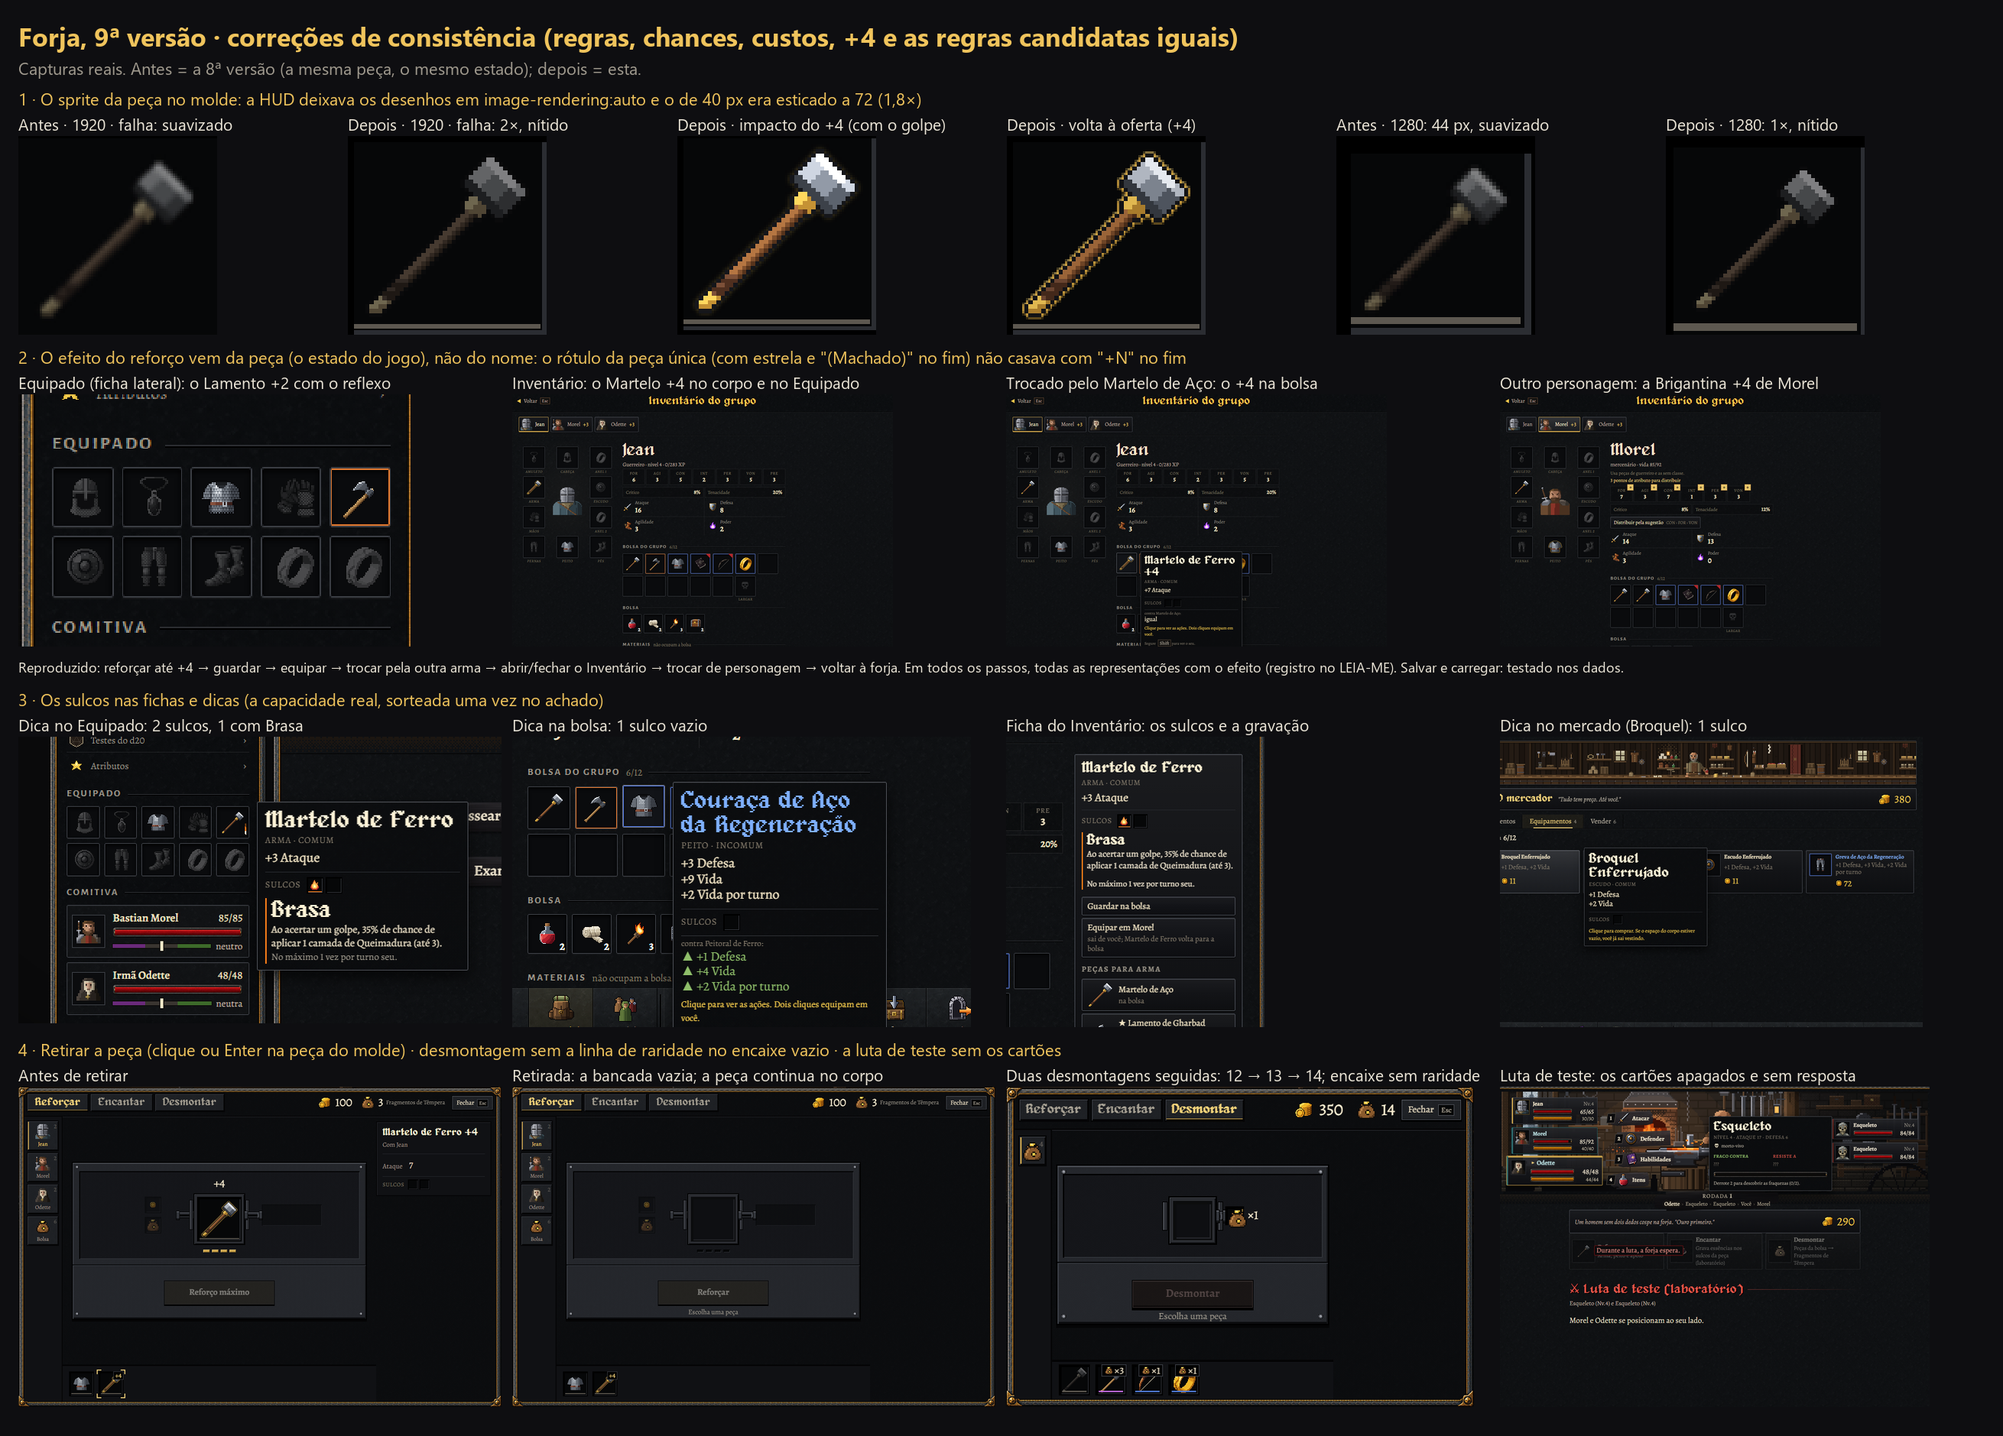
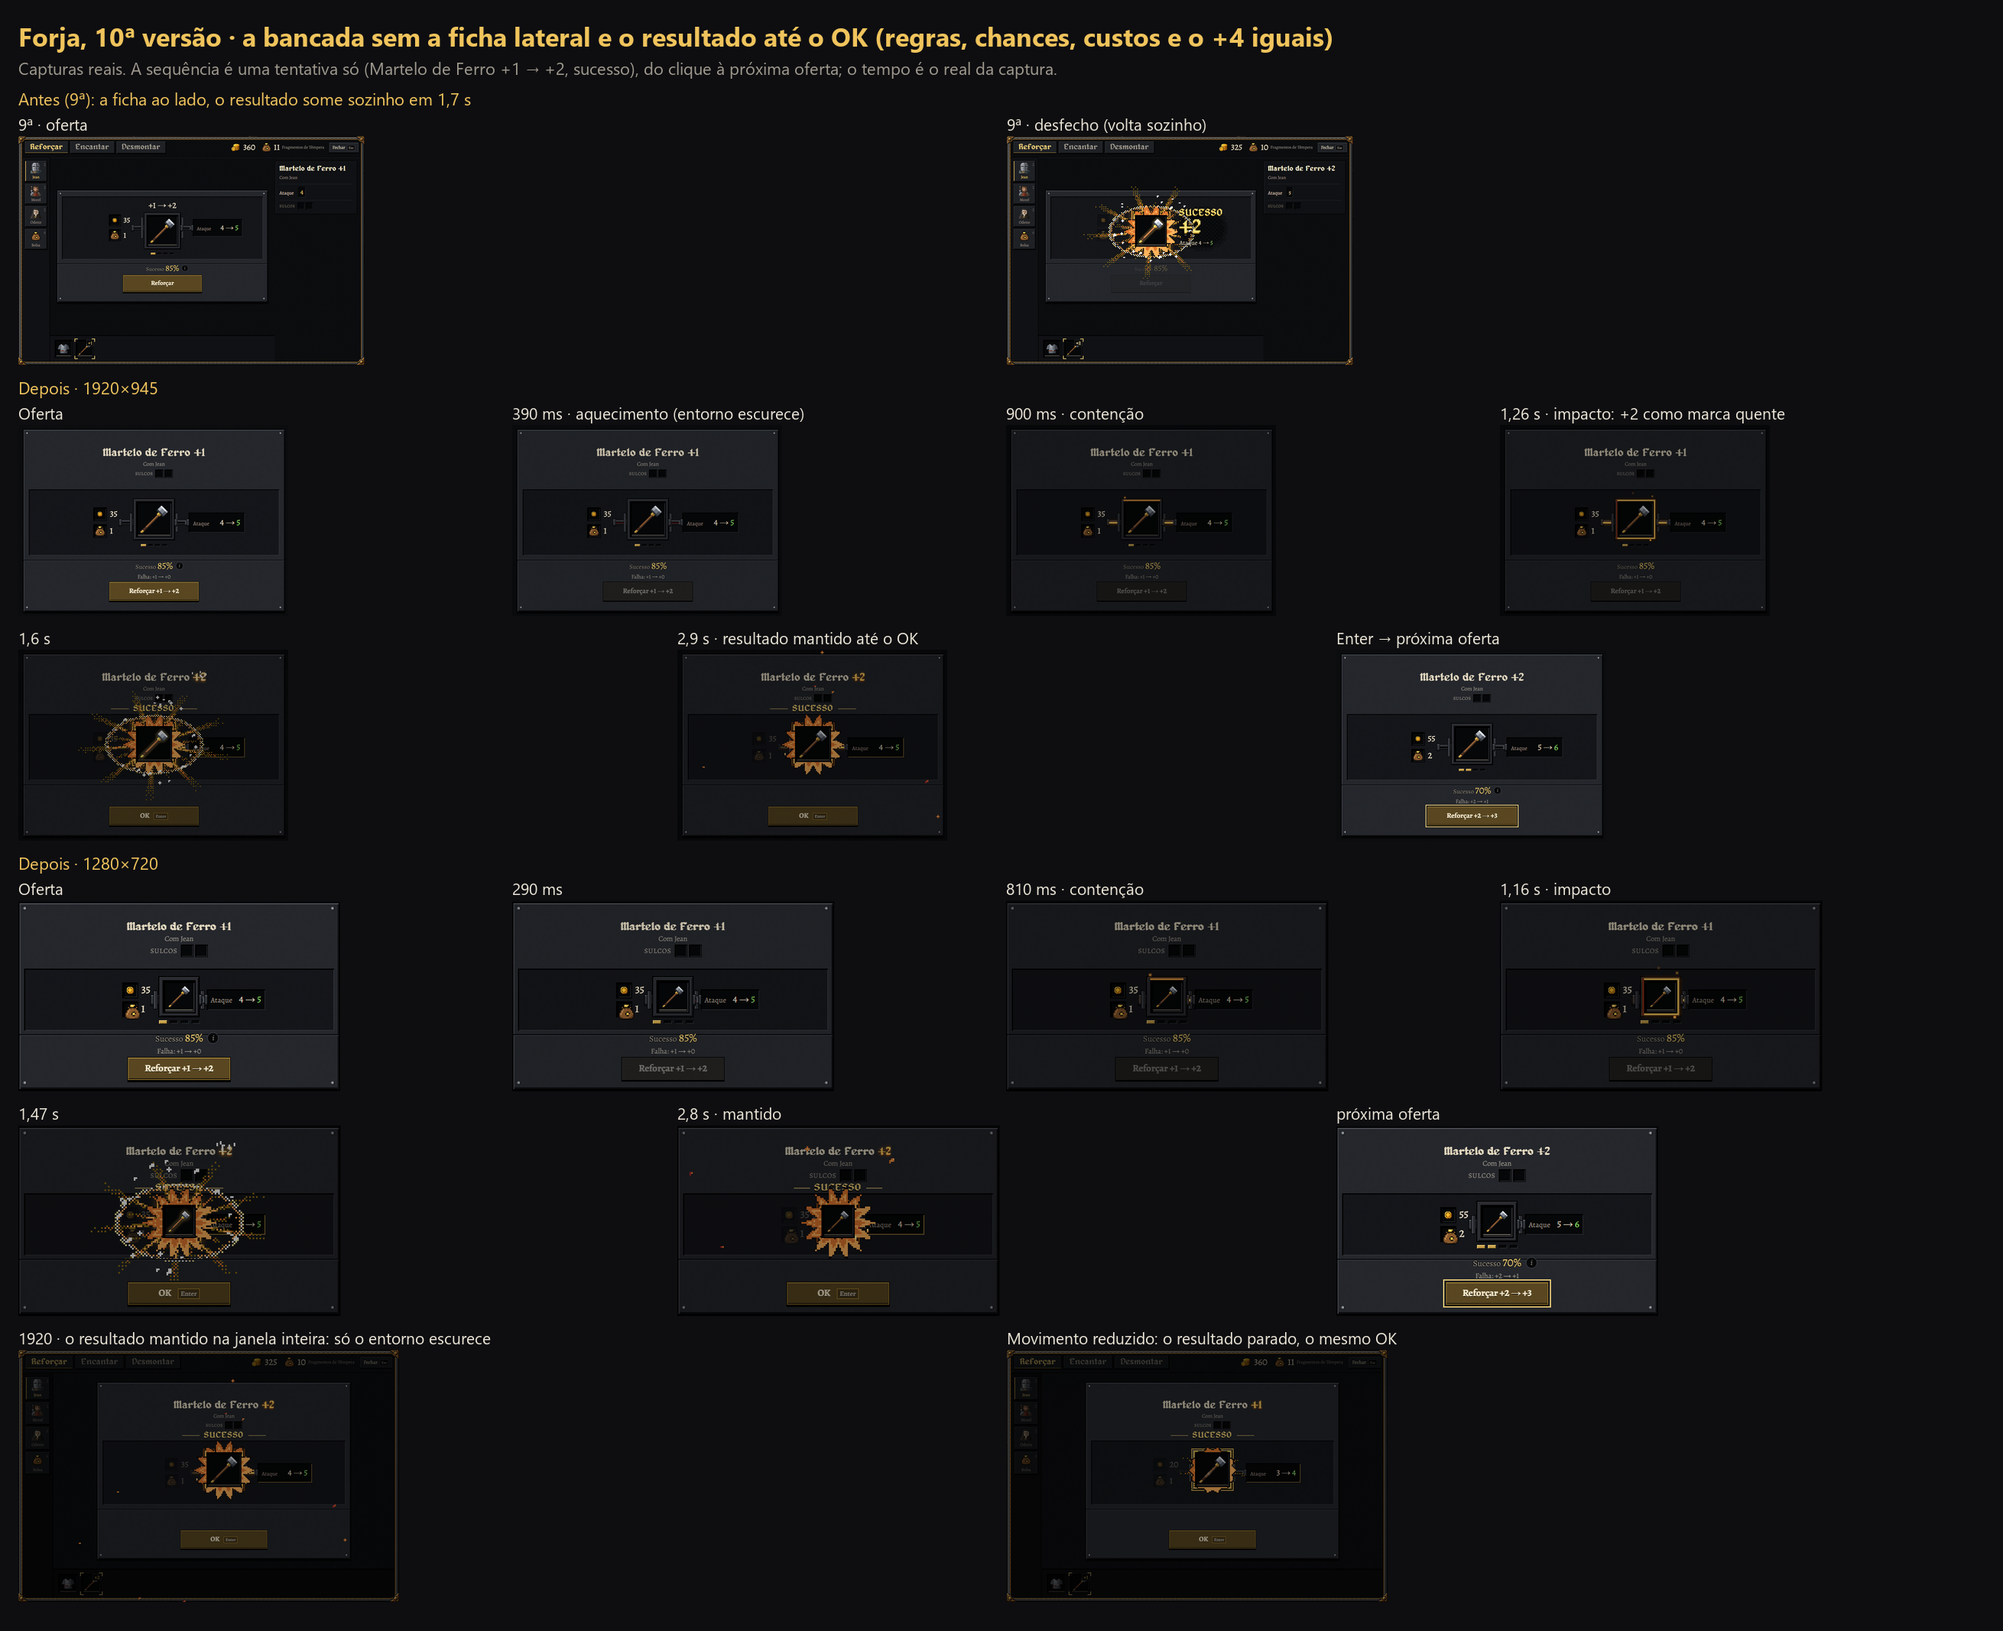
docs: a 10ª versão da forja (corrigido, conferido, som adiado para a 1.0)

diff --git a/ferramentas/prototipos/reforco/LEIA-ME.md b/ferramentas/prototipos/reforco/LEIA-ME.md
@@ -15,11 +15,93 @@ Só nesta execução, `demo.py` troca a forja (o balcão novo), o baú (que pode
 "Materiais" do Inventário, a venda da peça reforçada, a ficha das peças nas telas (as gravações) e liga os efeitos das
 gravações na luta. O resto é o jogo: o Inventário do grupo, o mercado, a luta, a estrada.
 
-## 9ª versão: consistência visual e de interação (candidata em avaliação)
+## 10ª versão: a bancada com o título, o resultado até o OK e as pendências de dados (candidata em avaliação)
+
+Regras, chances, custos e o limite +4 iguais; o sprite continua em escala inteira (2× a 1920), sem ampliar a 3×. A 9ª
+está em `tela/historico/v9` (a faixa abre "v9"). Folhas: `folha.png` (a sequência contínua de uma tentativa, nas duas
+resoluções, e a 9ª ao lado) e `folha-encantar.png` (casos, identidade das peças, sulcos e encantamento).
+
+### A composição do Reforçar
+
+- **Sem a ficha lateral.** No topo da bancada, o nome inteiro da peça com o nível ("Martelo de Ferro +2"), na cor da
+  raridade do jogo; embaixo, menores, o dono e os sulcos. A peça no centro do molde, os materiais à esquerda e o ganho à
+  direita. A chance e a consequência da falha junto da ação ("Falha: +2 → +1"); o botão diz "Reforçar +2 → +3". A
+  ficha completa continua na dica da peça (mouse e foco do teclado).
+- **O mesmo eixo e as mesmas dimensões** na oferta, na cena, no resultado e no máximo (700 × 489 a 1920; a 1280 cabe
+  sem rolagem). Nome longo, peça única e peça bloqueada conferidos (no máximo duas linhas no título).
+
+### O impacto do nível e o foco
+
+- **O entorno escurece** durante a cena (moderado, sem desfoque nem clarão de tela inteira); a bancada fica clara. O
+  véu é a sombra em volta de um recorte do tamanho da janela: a janela mora num contexto de camadas da HUD (a mesa), e
+  um véu de tela inteira escurecia a bancada junto (achado na sequência contínua e corrigido).
+- **Contenção:** no fim do aquecimento, a luz do molde se fecha num instante antes do impacto, dentro da mesma duração.
+- **Sucesso:** o nível antigo fica no título até a revelação; então o número novo entra como uma marca quente (impacto
+  breve, brilho e fagulhas pequenas saindo do número); o antigo some. Só o número anima; o nome, a peça e o ganho
+  continuam legíveis. **Falha:** sóbria, sem a marca (o número novo em cinza claro).
+
+### O resultado até o OK
+
+- O resultado do reforço fica na tela até **OK**, **Enter** ou **Esc**. A chance, a falha e a nota somem do resultado
+  (o espaço fica); o botão vira OK no mesmo lugar. Depois do OK, a próxima oferta ou o máximo. Sem espera forçada.
+- O gesto que adianta a animação não dispensa o resultado; tecla segurada e clique duplo não dispensam nem compram de
+  novo (testado: Enter compra, Enter adianta, Enter dispensa; Enter segurado 15 vezes compra uma vez; clique duplo no
+  Reforçar compra uma vez; clique duplo no OK dispensa uma vez; clique fora do OK no resultado não faz nada).
+- Fechar a janela continua possível e não altera a compra. Movimento reduzido: o resultado parado, com o mesmo OK. A
+  desmontagem não ganhou confirmação extra.
+
+### Corrigido
+
+- **Retirar pela miniatura:** clicar de novo na miniatura selecionada tira a peça da bancada (como clicar na peça do
+  molde).
+- **O texto de compatibilidade:** a dica da essência diz "Compatível com: armas, focos e escudos"; junto do Gravar
+  bloqueado, o caso da peça: "Incompatível com peitorais". O padrão está na skill `texto-regras-fenda`.
+- **Os rastros da borda** das gravações mais longos (a mesma espessura): com três essências, quase se encontram, cada
+  um na sua cor, em degraus de pixel.
+- **O efeito que piscava** na ficha ao apertar Continuar ou numa ação que não muda o equipamento. Causa: a tela do jogo
+  redesenha os painéis a cada atualização, e a aparência da peça (a borda das gravações, a luz do +4) só voltava no
+  próximo ciclo do protótipo (até 200 ms depois), com a borda recomeçando a volta. Agora a aparência entra no mesmo
+  instante em que o slot é redesenhado, e a borda continua a volta pelo relógio. Medido quadro a quadro num slot com
+  gravação ao longo de 5 redesenhos: 27 quadros sem a borda na 9ª, 0 agora.
+- **A identidade das peças:** as dicas não acham mais a peça pelo nome. Cada elemento diz qual peça mostra (a forja, o
+  Equipado, o Inventário pela aba do personagem e o espaço, a bolsa pela posição, o mercado pela posição na lista da
+  loja). Conferido com dois "Martelo de Ferro" (o de Jean com Brasa, o de Morel com 1 sulco vazio) e dois "Broquel
+  Enferrujado" no mercado.
+- **Quando os sulcos nascem:** com a peça, uma vez (o drop, o mercado, o saque, a recompensa, o único), pela semente
+  da própria peça, sem gastar o sorteio do jogo; as peças que já existiam ganham os delas ao começar e ao carregar um
+  save antigo. Abrir uma ficha só lê (antes, a primeira ficha decidia). O mercado e o saque importavam a criação pelo
+  nome e ficavam sem sulcos: corrigido, com um teste que confere todos os módulos que criam peças.
+- **Os sulcos no achado:** a janela "Você encontrou" monta a ficha em pedaços, sem a função das outras telas; os
+  sulcos da peça achada entram embaixo das linhas dela (conferido com um saque real de chefe, nas duas resoluções).
+
+### Conferido
+
+- 37 testes do protótipo; a 1920×945 e 1280×720: a sequência contínua da mesma tentativa (oferta, aquecimento,
+  contenção, impacto, resultado mantido, próxima oferta), falha, máximo, falta de recursos, nome longo, peça única,
+  movimento reduzido; os gestos acima; retirar pela miniatura e pelo molde; Continuar sem piscar; peças homônimas;
+  saque real; **salvar pela interface e carregar** (o Martelo +2 com Brasa e os sulcos de cada peça voltam iguais, na
+  dica e na forja).
+
+### Pendências
+
+- **Revisão de som adiada:** fica para quando a interface estiver satisfatória como 1.0 (a cena e o resultado mantido
+  não tiveram o som revisto; os sons não foram ouvidos nas conferências).
+- Os ícones das essências em 16 e 24 px ainda são reduzidos pelo navegador (desenho próprio por tamanho, com a arte).
+- A demonstração não tem tela de carregar: o carregamento foi conferido com um lançador de conferência que abre, pelo
+  `carregar` do jogo, o save gravado pelo botão Salvar.
+
+### Roteiro (uns 3 minutos)
+
+1. Ferreiro → **Reforçar** → o martelo com **Sucesso (teste)**: o entorno escurece, o número novo entra quente no
+   título, o resultado espera o **OK** (Enter). Experimente segurar Enter e o clique duplo.
+2. **Falha (teste)**: a falha sóbria. Clique de novo na miniatura selecionada: a peça sai da bancada.
+3. **Encantar** no peitoral: passe o mouse na Brasa ("Compatível com: armas") e veja "Incompatível com peitorais"
+   junto do Gravar. Grave duas essências no martelo e aperte Continuar na vila: a borda não pisca.
+
+## 9ª versão: consistência visual e de interação (histórico; as folhas desta versão estão no git)
 
 Regras, chances, custos, o limite +4 e as regras candidatas do encantamento iguais; a bancada não foi redesenhada. A 8ª
-está em `tela/historico/v8` (a faixa abre "v8"). Folhas: `folha.png` (as correções) e `folha-encantar.png` (o texto e a
-composição do encantamento), antes (v8) × depois com a mesma peça.
+está em `tela/historico/v8` (a faixa abre "v8").
 
 ### Corrigido
 

diff --git a/docs/ROADMAP.md b/docs/ROADMAP.md
@@ -85,7 +85,7 @@ A migração das artes e seus usos específicos consta no plano 23; não contar 
 | **1E** | Desvio visual depois dos itens | **Concluída para a campanha na 1.200.0** (a 1E.4: o mapa, o minimapa, a Viagem e o Diário). Histórico: contador de flechas (1.155.0) e 17 estados (1.155.0–1.161.0) concluídos; Afogado, Ilse, Lobo e Bandido integrados (1.162.0–1.163.0); os três animais do patrulheiro concluídos (1.164.0–1.165.0); o Troll da montanha (1.166.0), o Rei Troll e a Aranha (1.167.0); a Rainha Aracnídea (1.168.0); o arco no Atacar do Arqueiro (1.169.0); o lobo na fogueira (1.170.0); o sapo e a sanguessuga (1.171.0); o cultista, a bruxa e o rato (1.172.0); o javali e o carniçal (1.173.0); o espectro (1.174.0); em andamento as demais criaturas, os chefes e as invocações (1E.3); depois caminhos e símbolos do mapa/minimapa (1E.4) |
 | **2** | Menu de carregar e fichas dos saves, criação, livro da capela, dado, subida de nível, celebrações e raridade | Pendente; Grimório e árvore passam ao mesmo ciclo dos sistemas na etapa 8 |
 | **3** | Interior da forja e ferreiro | Pendente; começar com as regras atuais |
-| **4** | Protótipo de reforço e encantamento | Direção aprovada (25, seção 5). Protótipo jogável de reforço, materiais e desmontagem em `ferramentas/prototipos/reforco` (26/10); tela: direção A · Bancada escolhida, a versão refinada em avaliação, sem integrar; regra mudada em 26/10: reforço com chance (o primeiro garantido; falha −1 nível, sem quebrar), substituindo o garantido; números provisórios; 27/10: a 8ª versão da forja (desmontagem na mesma bancada, acabamento do reforço) e o encantamento de laboratório (Encantar, sulcos múltiplos sorteados no drop, seis essências, luta de teste), candidatos sem integrar; elevação de base para depois |
+| **4** | Protótipo de reforço e encantamento | Direção aprovada (25, seção 5). Protótipo jogável de reforço, materiais e desmontagem em `ferramentas/prototipos/reforco` (26/10); tela: direção A · Bancada escolhida, a versão refinada em avaliação, sem integrar; regra mudada em 26/10: reforço com chance (o primeiro garantido; falha −1 nível, sem quebrar), substituindo o garantido; números provisórios; 27/10: a 8ª versão da forja (desmontagem na mesma bancada, acabamento do reforço) e o encantamento de laboratório (Encantar, sulcos múltiplos sorteados no drop, seis essências, luta de teste), candidatos sem integrar; 9ª e 10ª versões (bancada com o título, resultado até o OK, sulcos que nascem com a peça) em avaliação, som adiado para a 1.0; elevação de base para depois |
 | **5** | Interiores do Templo, Curandeira e Taverna | Pendente |
 | **6** | Cenários dos lugares, entornos de acampamentos e cenas principais | Pendente; conferir a permanência dos acontecimentos |
 | **7** | Cenas dos eventos recorrentes da estrada | Pendente |

diff --git a/roadmapIDEIAS/25-ETAPA4-REFORCO-E-ENCANTAMENTO.md b/roadmapIDEIAS/25-ETAPA4-REFORCO-E-ENCANTAMENTO.md
@@ -478,7 +478,7 @@ Diablo III (o que se aproveitou, no LEIA-ME).
 **Pendências:** a distribuição dos sulcos, custos e fontes de essência; remover sem substituir; recuperação ao
 desmontar; arte das essências; equilíbrio dos efeitos com partida de verdade; integração (nada disso está no jogo).
 
-### 5.8 A 9ª versão: consistência visual e de interação (27/10/2026) — candidata em avaliação
+### 5.8 A 9ª versão: consistência visual e de interação (27/10/2026) — substituída pela 10ª
 
 Sem mudança de regras, chances, custos, limite +4 ou regras candidatas. **Corrigido:** o sprite da peça suavizado
 (causa: a regra da HUD `img.desenho { image-rendering: auto }` vencia a do protótipo e o desenho de 40 px era esticado a
@@ -491,6 +491,22 @@ peça da bancada; a borda luminosa em pixel; a desmontagem sem a linha de rarida
 durante a luta de teste. A skill `texto-regras-fenda` ganhou os critérios gerais de texto de telas de sistema.
 **Pendências:** ícones das essências em tamanhos pequenos; a dica por nome em peças homônimas; sons não ouvidos.
 Detalhes, o que foi só investigado e o roteiro no LEIA-ME.
+
+### 5.9 A 10ª versão: a bancada com o título e o resultado até o OK (27/10/2026) — candidata em avaliação
+
+Sem mudança de regras, chances, custos ou limite +4; o sprite em escala inteira (sem 3×). **Composição:** sem a ficha
+lateral no Reforçar; o nome inteiro com o nível no topo da bancada, na cor da raridade, com o dono e os sulcos embaixo;
+a chance e "Falha: +2 → +1" junto do botão "Reforçar +2 → +3"; a ficha completa na dica da peça. **Impacto:** o entorno
+escurece durante a cena (um recorte em volta da janela; o véu de tela inteira escurecia a bancada junto), uma contenção
+antes do impacto e, no sucesso, o número novo como marca quente no título (só o número anima); a falha sóbria.
+**Resultado até OK/Enter/Esc**, sem espera forçada, com os gestos protegidos (tecla segurada, clique duplo, o gesto que
+adianta não dispensa); movimento reduzido igual, parado. **Corrigido:** retirar pela miniatura; "Compatível com: armas,
+focos e escudos" na dica e "Incompatível com peitorais" junto da ação (padrão na skill `texto-regras-fenda`); rastros
+da borda mais longos; o efeito que piscava ao Continuar (a aparência da peça voltava só no ciclo seguinte; agora no
+redesenho, medido: 27 quadros sem borda na 9ª, 0 agora); a identidade das peças nas dicas (nunca pelo nome); os sulcos
+nascem com a peça (drop, mercado, saque, únicos) e as telas só leem; os sulcos no achado. **Pendências:** a revisão de
+som, adiada até a interface estar satisfatória como 1.0; os ícones das essências em tamanhos pequenos. Detalhes e
+roteiro no LEIA-ME.
 
 ## 6. Pontos que a proposta anterior precisa resolver
 

diff --git a/roadmapIDEIAS/00-COMECE-AQUI.md b/roadmapIDEIAS/00-COMECE-AQUI.md
@@ -7844,3 +7844,18 @@ Tudo no protótipo (`ferramentas/prototipos/hud/LEIA-ME.md`, as seções de mesm
   mesmos termos, alinhamento) e exemplos.
 - **Conferido:** 36 testes do protótipo; a 1920×945 e 1280×720, a reprodução completa do efeito, os quadros nítidos,
   mouse, teclado e movimento reduzido; folhas novas. Nada integrado.
+
+### 27/10/2026 (data do computador local) — Forja: a 10ª versão, a bancada com o título e o resultado até o OK (protótipo)
+
+- **Pedido:** uma candidata pela referência do Jean (sem a ficha lateral; nome com o nível, dono e sulcos no topo; a
+  chance e a falha junto da ação), o impacto do nível (entorno escurecido, contenção, número como marca quente), o
+  resultado mantido até OK/Enter/Esc e as pendências de interação e dados; sem mudar regras, sem 3×, sem som, sem vídeo.
+- **Corrigido (causas no LEIA-ME e no 25, 5.9):** retirar pela miniatura; o texto de compatibilidade; rastros mais
+  longos; o efeito que piscava (a aparência só voltava no ciclo seguinte ao redesenho); as dicas pela peça exata, nunca
+  pelo nome; os sulcos nascendo com a peça (o mercado e o saque importavam a criação pelo nome); os sulcos no achado; o
+  véu da cena que escurecia a bancada junto.
+- **Conferido:** 37 testes do protótipo; a 1920×945 e 1280×720, a sequência contínua da mesma tentativa, os gestos,
+  casos (nome longo, peça única, máximo, falta), movimento reduzido, peças homônimas, saque real, salvar e carregar pela
+  interface; folhas novas. A 9ª em `tela/historico/v9`.
+- **Adiado:** a revisão de som, para quando a interface estiver satisfatória como 1.0.
+- **Próximo:** a avaliação do Jean. Nada integrado.
